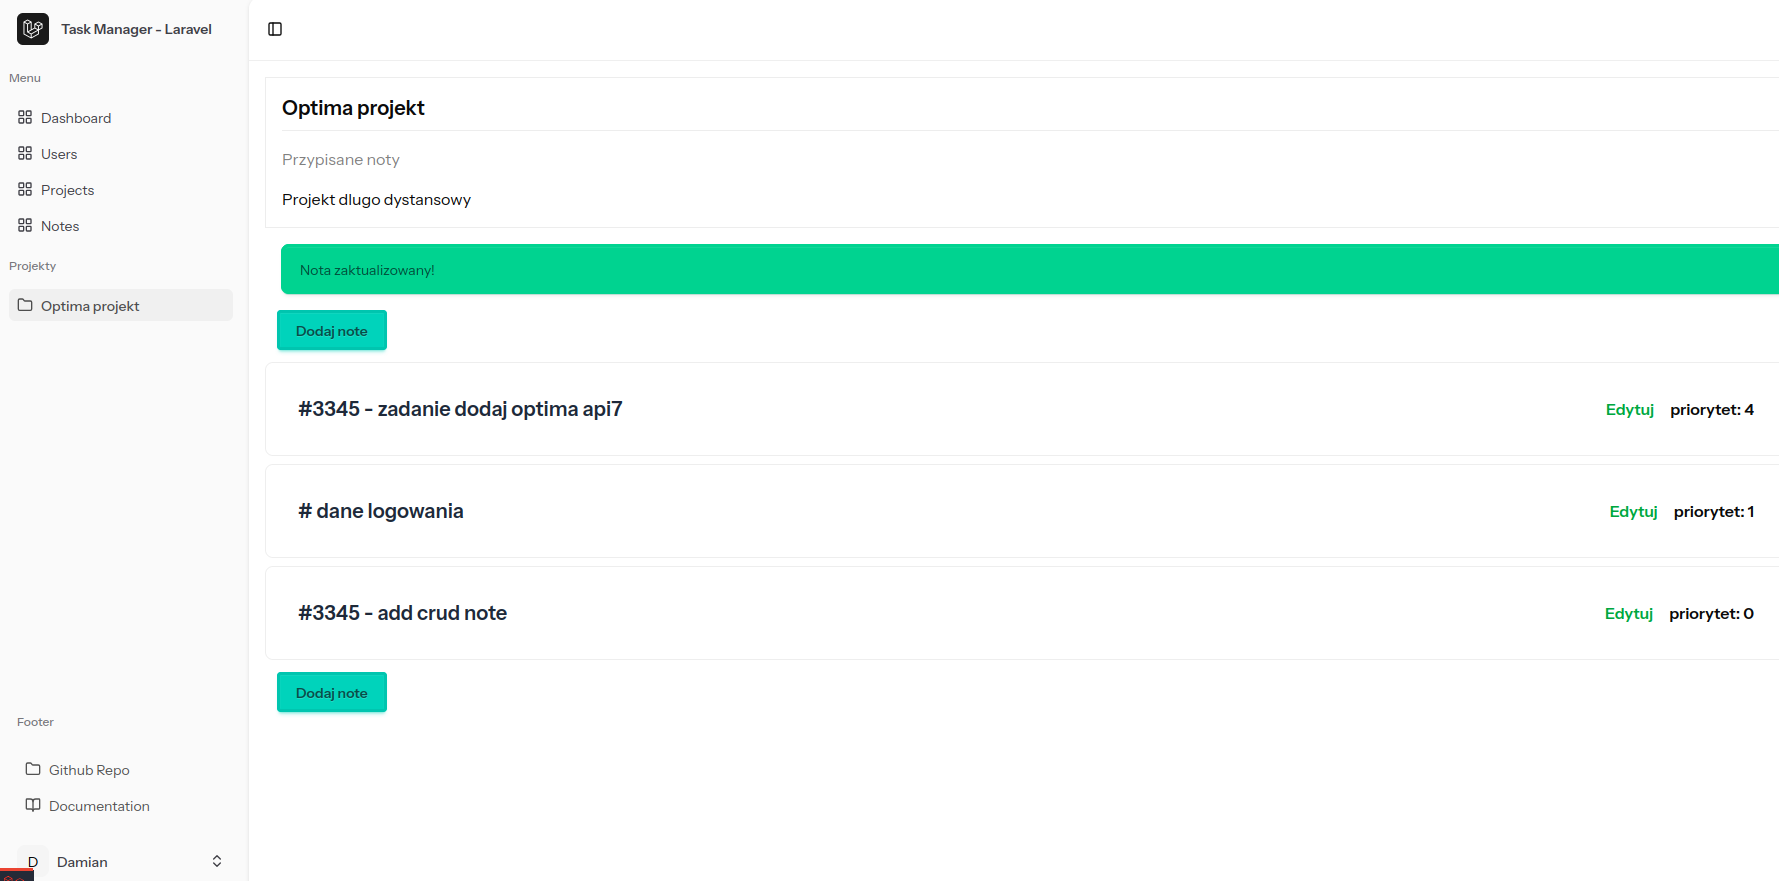
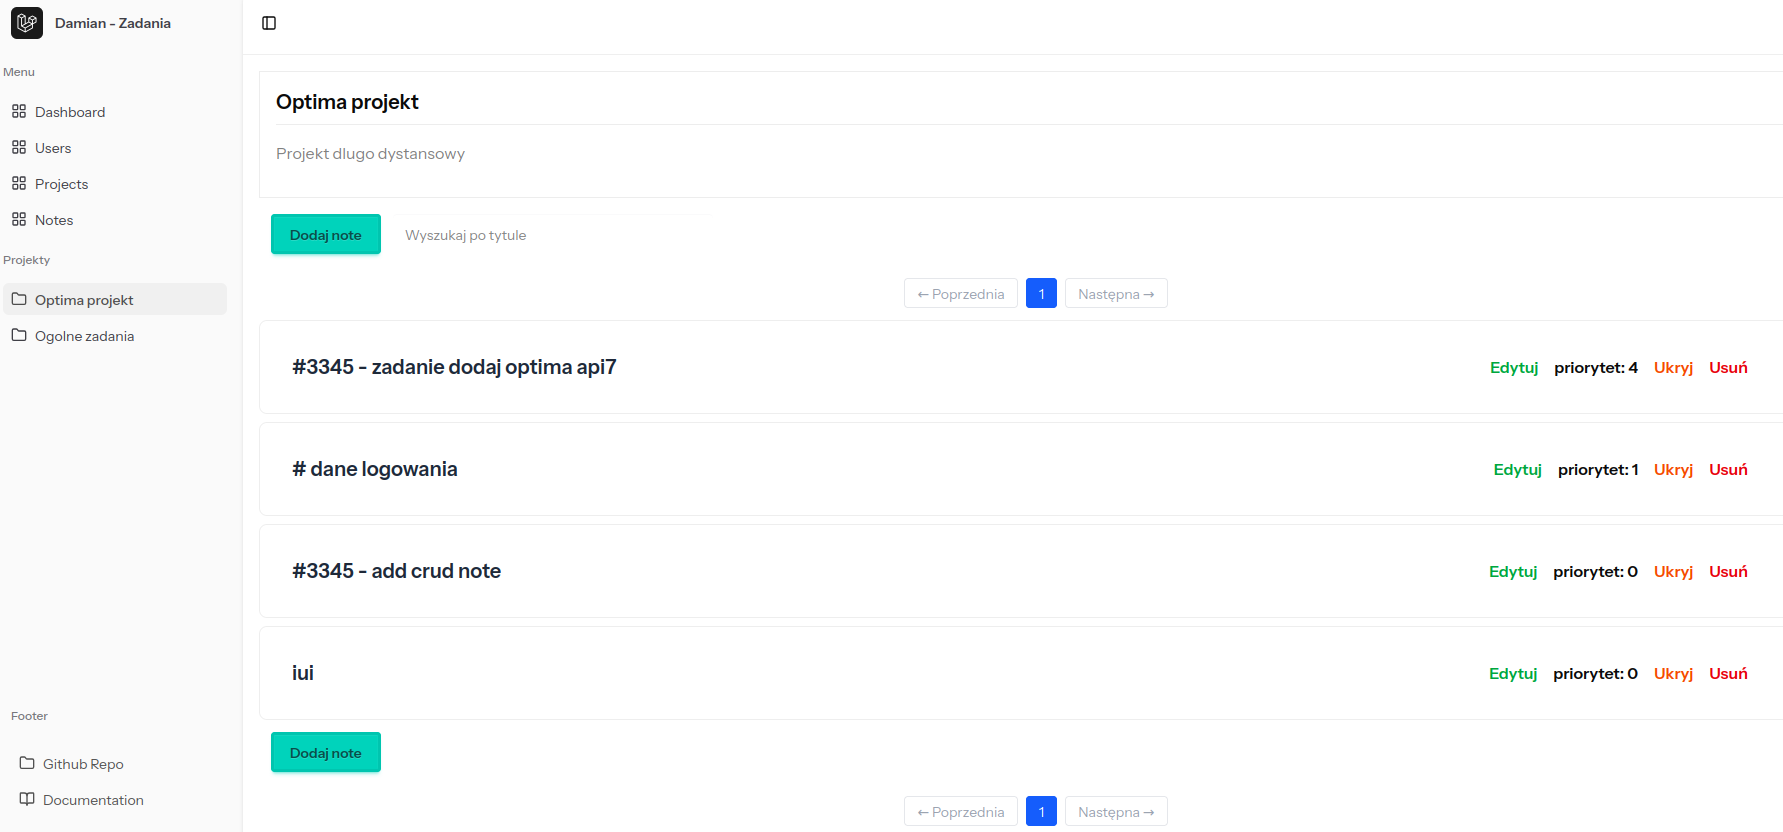
add screen

diff --git a/resources/js/components/AppLogo.vue b/resources/js/components/AppLogo.vue
@@ -1,5 +1,7 @@
 <script setup lang="ts">
 import AppLogoIcon from '@/components/AppLogoIcon.vue';
+const appName = import.meta.env.VITE_APP_NAME || 'Laravel';
+
 </script>
 
 <template>
@@ -10,7 +12,7 @@ import AppLogoIcon from '@/components/AppLogoIcon.vue';
     </div>
     <div class="ml-1 grid flex-1 text-left text-sm">
         <span class="mb-0.5 truncate leading-tight font-semibold"
-            >Task Manager - Laravel</span
+            >{{appName}}</span
         >
     </div>
 </template>
